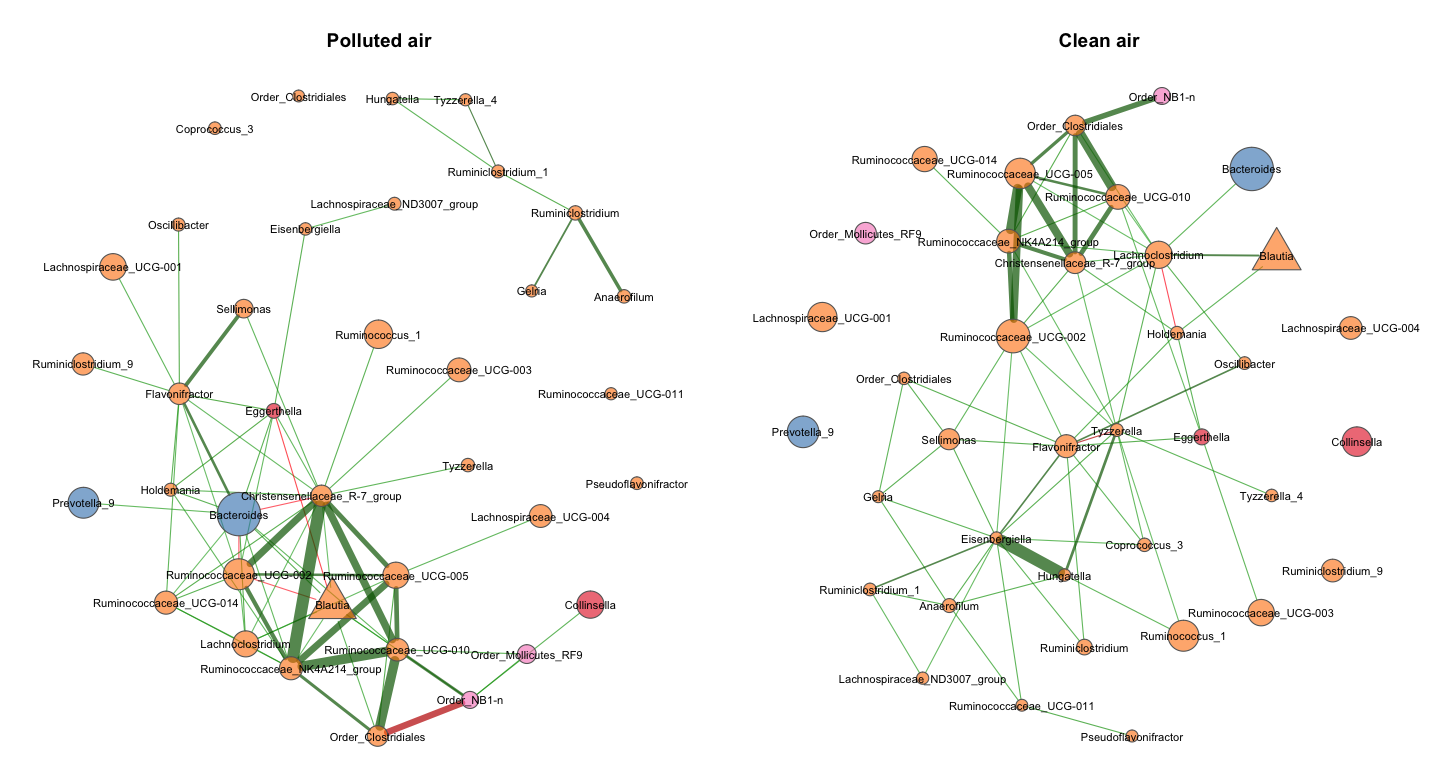
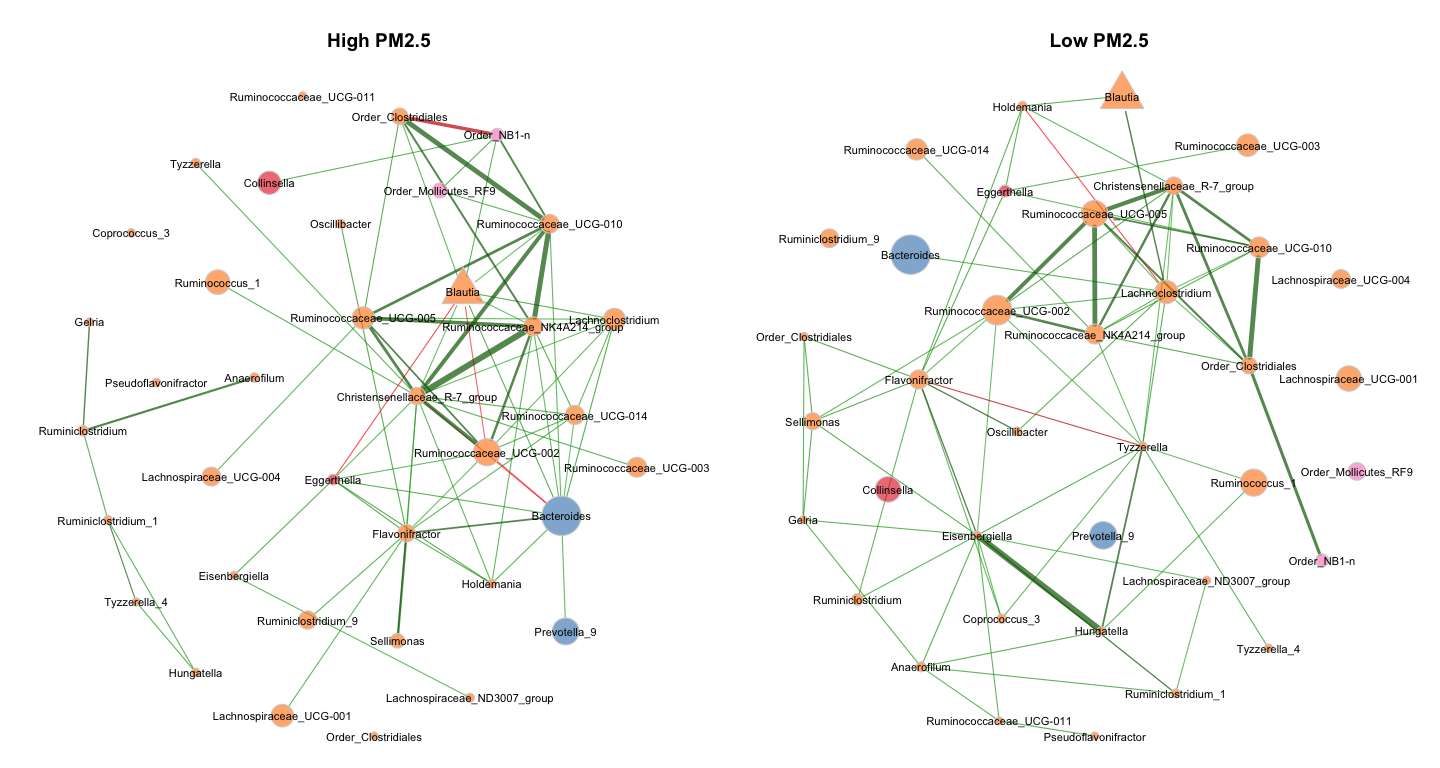
update plots paper

diff --git a/5_networks/5.2.1_Networks_viz_Gen.md b/5_networks/5.2.1_Networks_viz_Gen.md
@@ -59,38 +59,34 @@ names(shapeVec) <- names(phyl_ps_prune)
 
 plot_props <- plot(props_W, 
      layout = "spring",
-     sameLayout = TRUE, layoutGroup = 1, 
+     # layout = "layout_with_fr",
+     sameLayout = FALSE, layoutGroup = 2, 
      labels = FALSE,
-     # labelScale = TRUE,
-     # featVecCol = phyl_ps_prune,
      nodeColor = "colorVec",
      colorVec = phylcol_names,
-     nodeTransp = 20,
-     borderCol = "gray40", highlightHubs = FALSE, 
-     nodeSize = "clr", cexNodes = .5, 
-     # cexNodes = 1, 
-     # nodeSizeSpread = 3,
-     cexTitle = 2,
+     nodeTransp = 40,
+     borderCol = "lightgray", highlightHubs = FALSE, 
+     nodeSize = "clr", cexNodes = 1, 
+     cexTitle = 1,
      edgeTranspLow = 30, 
      edgeTranspHigh = 30,
-     # nodeShape = c("circle", "triangle","square","diamond"),
      nodeShape = c("circle", "triangle"),
      featVecShape = shapeVec,
      rmSingles = "inboth",
-     mar = c(6,5,3,2), groupNames = c("Polluted air", "Clean air"))
+     mar = c(6,5,3,2), groupNames = c("High PM2.5", "Low PM2.5"))
 legend("top", 
        inset = .05, title = "phylum:",
        legend=levels(phyl_ps_prune), ncol = 2,
        col=phylcol, pt.bg = phylcol, bty = "n", pch=16) 
 legend("bottom", 
-       inset = .13, 
+       inset = .2, 
        title = "weights:",
        legend=c("+","-"), lty = 1, lwd = 2,
        col=c("darkgreen","red"), bty="n", horiz = TRUE) 
 legend("bottom", 
-       inset = .19, 
+       inset = .28, 
        title = "differentially abundant:",
-       legend=c("Genus"), 
+       legend=c("Genera"), 
        pch = c(2,0,5), 
        bty="n", horiz = FALSE) 
 ```
@@ -114,8 +110,118 @@ summary(props_W)[[1]]
 ### Modularity (clusters/modules)
 
 ``` r
-# summary(props_W)
+summary(props_W)
 ```
+
+    ## 
+    ## Global network properties
+    ## `````````````````````````
+    ## Largest connected component (LCC):
+    ##                                  group '1' group '2'
+    ## Relative LCC size                  0.55034   0.51007
+    ## Clustering coefficient             0.36271   0.29688
+    ## Moduarity                          0.55167   0.54679
+    ## Positive-to-negative ratio         2.34783   2.38095
+    ## Edge density                       0.04637   0.04982
+    ## Natural connectivity               0.01589   0.01695
+    ## Average dissimilarity*             0.69450   0.69503
+    ## Average (shortest) path length**   4.71579   3.80998
+    ## 
+    ## Whole network:
+    ##                                group '1' group '2'
+    ## Number of connected components   8.00000  10.00000
+    ## Clustering coefficient           0.36027   0.29231
+    ## Moduarity                        0.60138   0.61070
+    ## Positive-to-negative ratio       2.38776   2.29167
+    ## Edge density                     0.01506   0.01433
+    ## Natural connectivity             0.00792   0.00780
+    ## 
+    ##  *Dissimilarity = 1 - edge weight
+    ## **Path length: Units with average dissimilarity
+    ## 
+    ## Clusters (whole network)
+    ## ````````````````````````
+    ## group '1':                                                   
+    ## name:  0  1  2  3 4  5 6 7 8 9 10 11 12 13 14 15 16
+    ## freq: 49 15 10 23 2 10 8 2 4 5  5  2  3  4  2  2  3
+    ## 
+    ## group '2':                                                    
+    ## name:  0  1  2 3  4  5 6  7 8 9 10 11 12 13 14 15 16
+    ## freq: 49 11 16 2 18 15 2 10 2 6  4  4  2  2  2  2  2
+    ## 
+    ## 
+    ## Hubs (in alphabetical/numerical order)
+    ## ``````````````````````````````````````
+    ##  group '1' group '2'
+    ##    "Seq11"   "Seq21"
+    ##   "Seq116"  "Seq271"
+    ##     "Seq2"   "Seq36"
+    ##    "Seq21"  "Seq453"
+    ##    "Seq36"   "Seq46"
+    ##    "Seq46"  "Seq517"
+    ##   "Seq517"   "Seq56"
+    ##    "Seq84"   "Seq84"
+    ## 
+    ## 
+    ## Centrality measures* (in decreasing order)
+    ## ``````````````````````````````````````````
+    ## Degree:
+    ##         group '1' group '2'
+    ##   Seq46   0.12162   0.07432
+    ##   Seq11   0.09459    0.0473
+    ##    Seq2   0.08108   0.01351
+    ##  Seq227   0.08108   0.06757
+    ##   Seq84   0.06757   0.06081
+    ##            ______    ______
+    ##  Seq453   0.01351   0.09459
+    ##  Seq683   0.02703   0.09459
+    ##   Seq36    0.0473   0.08108
+    ##   Seq46   0.12162   0.07432
+    ##  Seq227   0.08108   0.06757
+    ## 
+    ## Betweenness centrality:
+    ##         group '1' group '2'
+    ##    Seq2   0.37623         0
+    ##  Seq216   0.35617         0
+    ##  Seq858     0.275   0.02775
+    ##  Seq622   0.21914   0.03459
+    ##  Seq369       0.2         0
+    ##            ______    ______
+    ##  Seq453   0.03611   0.26883
+    ##   Seq46   0.18549   0.26703
+    ##  Seq811         0   0.20577
+    ##  Seq683   0.06111   0.20144
+    ##  Seq227   0.13395   0.15964
+    ## 
+    ## Closeness centrality:
+    ##         group '1' group '2'
+    ##   Seq46   0.47565   0.47518
+    ##   Seq11   0.45093    0.3859
+    ##    Seq2   0.44042   0.34521
+    ##  Seq858   0.43671   0.36534
+    ##  Seq227   0.43034   0.44825
+    ##            ______    ______
+    ##  Seq453   0.32114   0.49801
+    ##   Seq46   0.47565   0.47518
+    ##   Seq36   0.37835   0.47429
+    ##  Seq683    0.3493   0.47077
+    ##  Seq227   0.43034   0.44825
+    ## 
+    ## Eigenvector centrality:
+    ##         group '1' group '2'
+    ##   Seq46         1         1
+    ##   Seq84   0.81195   0.93595
+    ##    Seq2   0.78261   0.13992
+    ##   Seq11   0.77394   0.31159
+    ##   Seq21   0.73523    0.8558
+    ##            ______    ______
+    ##   Seq46         1         1
+    ##   Seq36   0.58305   0.96674
+    ##   Seq84   0.81195   0.93595
+    ##  Seq453    0.1172   0.89779
+    ##   Seq21   0.73523    0.8558
+    ## ______________________________________________
+    ## *Centrality of disconnected components is zero
 
 #### Vizualisation
 
@@ -140,10 +246,10 @@ plot_cluster <- plot(props_W,
      nodeShape = c("circle", "triangle"),
      featVecShape = shapeVec,
      rmSingles = "inboth",
-     cexTitle = 2,
+     cexTitle = 1,
      edgeTranspLow = 30, 
      edgeTranspHigh = 30,
-     mar = c(6,5,3,2), groupNames = c("Polluted air", "Clean air"))
+     mar = c(6,5,3,2), groupNames = c("High PM2.5", "Low PM2.5"))
 legend("bottom", 
        inset = .11, 
        title = "weights:",
@@ -201,7 +307,7 @@ plot(g_sum, vertex.size = V(g_sum)$com_size/2, edge.width=E(g_sum)$weight/5,
      vertex.label.dist=5, vertex.label.degree = pi*V(g_sum)$type, 
      margin = -.2, asp = 2, edge.arrow.size=.7)
 
-legend(x=-2.5, y=-1.1, c("W = 0 (Polluted)", "W = 1 (Clean)"), pch=21,
+legend(x=-2.5, y=-1.1, c("W = 0 (High PM2.5)", "W = 1 (Low PM2.5)"), pch=21,
        col="#777777", pt.bg=c("#66B0FF","#1CFFCE"), pt.cex=2, cex=.8, bty="n", ncol=1)
 
 legend(x=.1, y=-1.1, legend=legend_cats$size_text, pt.cex=legend_cats$size_circle/11, bty="n", cex = .8,
@@ -226,9 +332,9 @@ labels_1[is.na(labels_1)] <- paste0("Order_", unname(tax_table(ps_Genus_prune)[i
 labels_1 <- as.character(labels_1)
 names(labels_1) <- rownames(tax_table(ps_Genus_prune)[, 'Genus'])
 
-plot(props_W, 
+p_zoom <- plot(props_W, 
      # sameLayout = TRUE, layoutGroup = 2, 
-     repulsion = .8,
+     repulsion = .6,
      # charToRm = "Seq",
      labels = labels_1[names_clust],
      labelFont = 1, 
@@ -236,18 +342,18 @@ plot(props_W,
      labelScale = FALSE,
      # featVecCol = phyl_ps_prune[names_clust],
      nodeColor = "colorVec",
-     colorVec = list(phylcol_names[names_clust],
-                  phylcol_names[names_clust]),
+     colorVec = phylcol_names,
      sameClustCol = FALSE,
-     borderCol = "gray40", highlightHubs = FALSE,
-     nodeSize = "clr", cexNodes = 1.5, 
+     borderCol = "lightgrey", highlightHubs = FALSE,
+     nodeSize = "clr", cexNodes = 1, 
      nodeTransp = 40,
      nodeFilter = "names",
      nodeShape = c("circle", "triangle"),
      featVecShape = shapeVec[names_clust],
      nodeFilterPar = names_clust,
      edgeTranspLow = 30, edgeTranspHigh = 30,
-     groupNames = c("Polluted air", "Clean air"))
+     edgeWidth = .5,
+     groupNames = c("High PM2.5", "Low PM2.5"))
 ```
 
 ![](5.2.1_Networks_viz_Gen_files/figure-gfm/unnamed-chunk-10-1.png)<!-- -->
